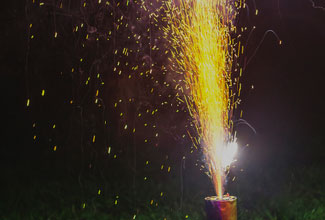
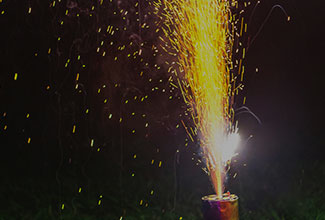
larger background images included for larger screen displays (1200px +)

diff --git a/landing/css/landing.css b/landing/css/landing.css
@@ -182,4 +182,20 @@
         background: url('../img/man-w-balloon-lg.jpg') no-repeat 50% 5%;
         background-size: cover;
     }
+
+    #course-rails {
+        background: url('../img/tout-nopants-lg.jpg') no-repeat 50% 50%;
+        background-size: cover;
+    }
+
+    #course-html {
+        background: url('../img/tout-firework-lg.jpg') no-repeat 50% 50%;
+        background-size: cover;
+    }
+
+    #course-growth {
+        background: url('../img/tout-skater-lg.jpg') no-repeat 50% 50%;
+        background-size: cover;
+    }
+
 }
